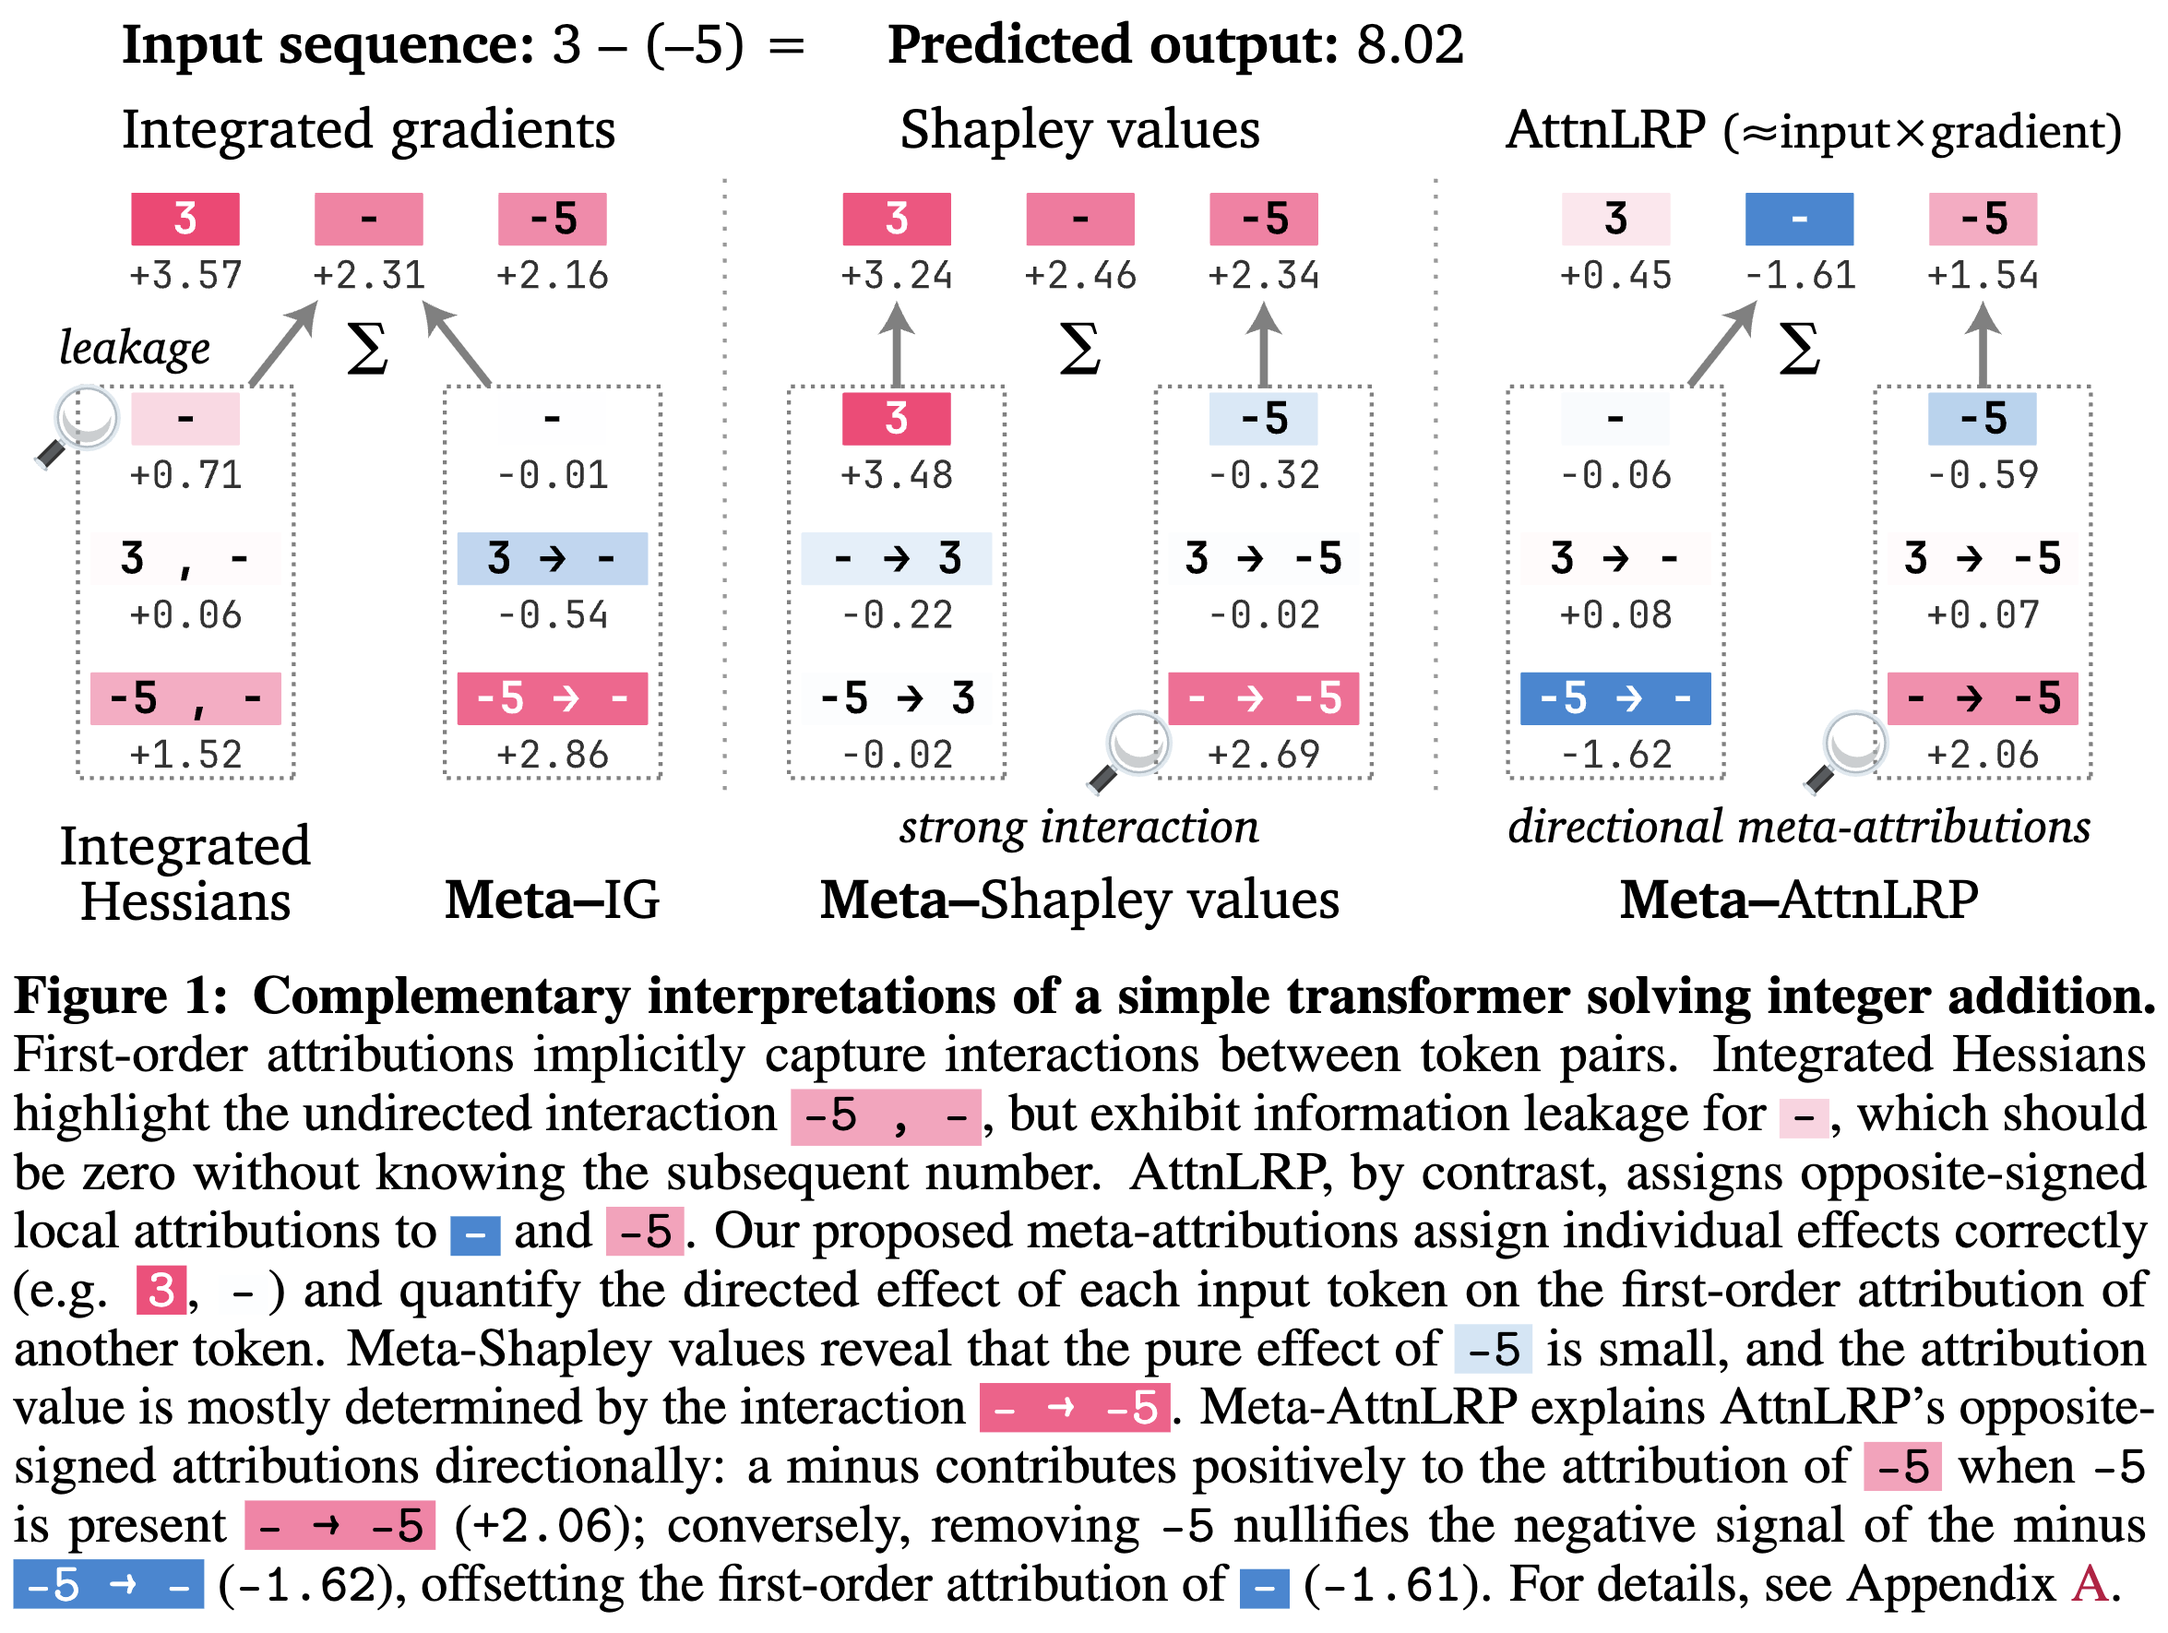
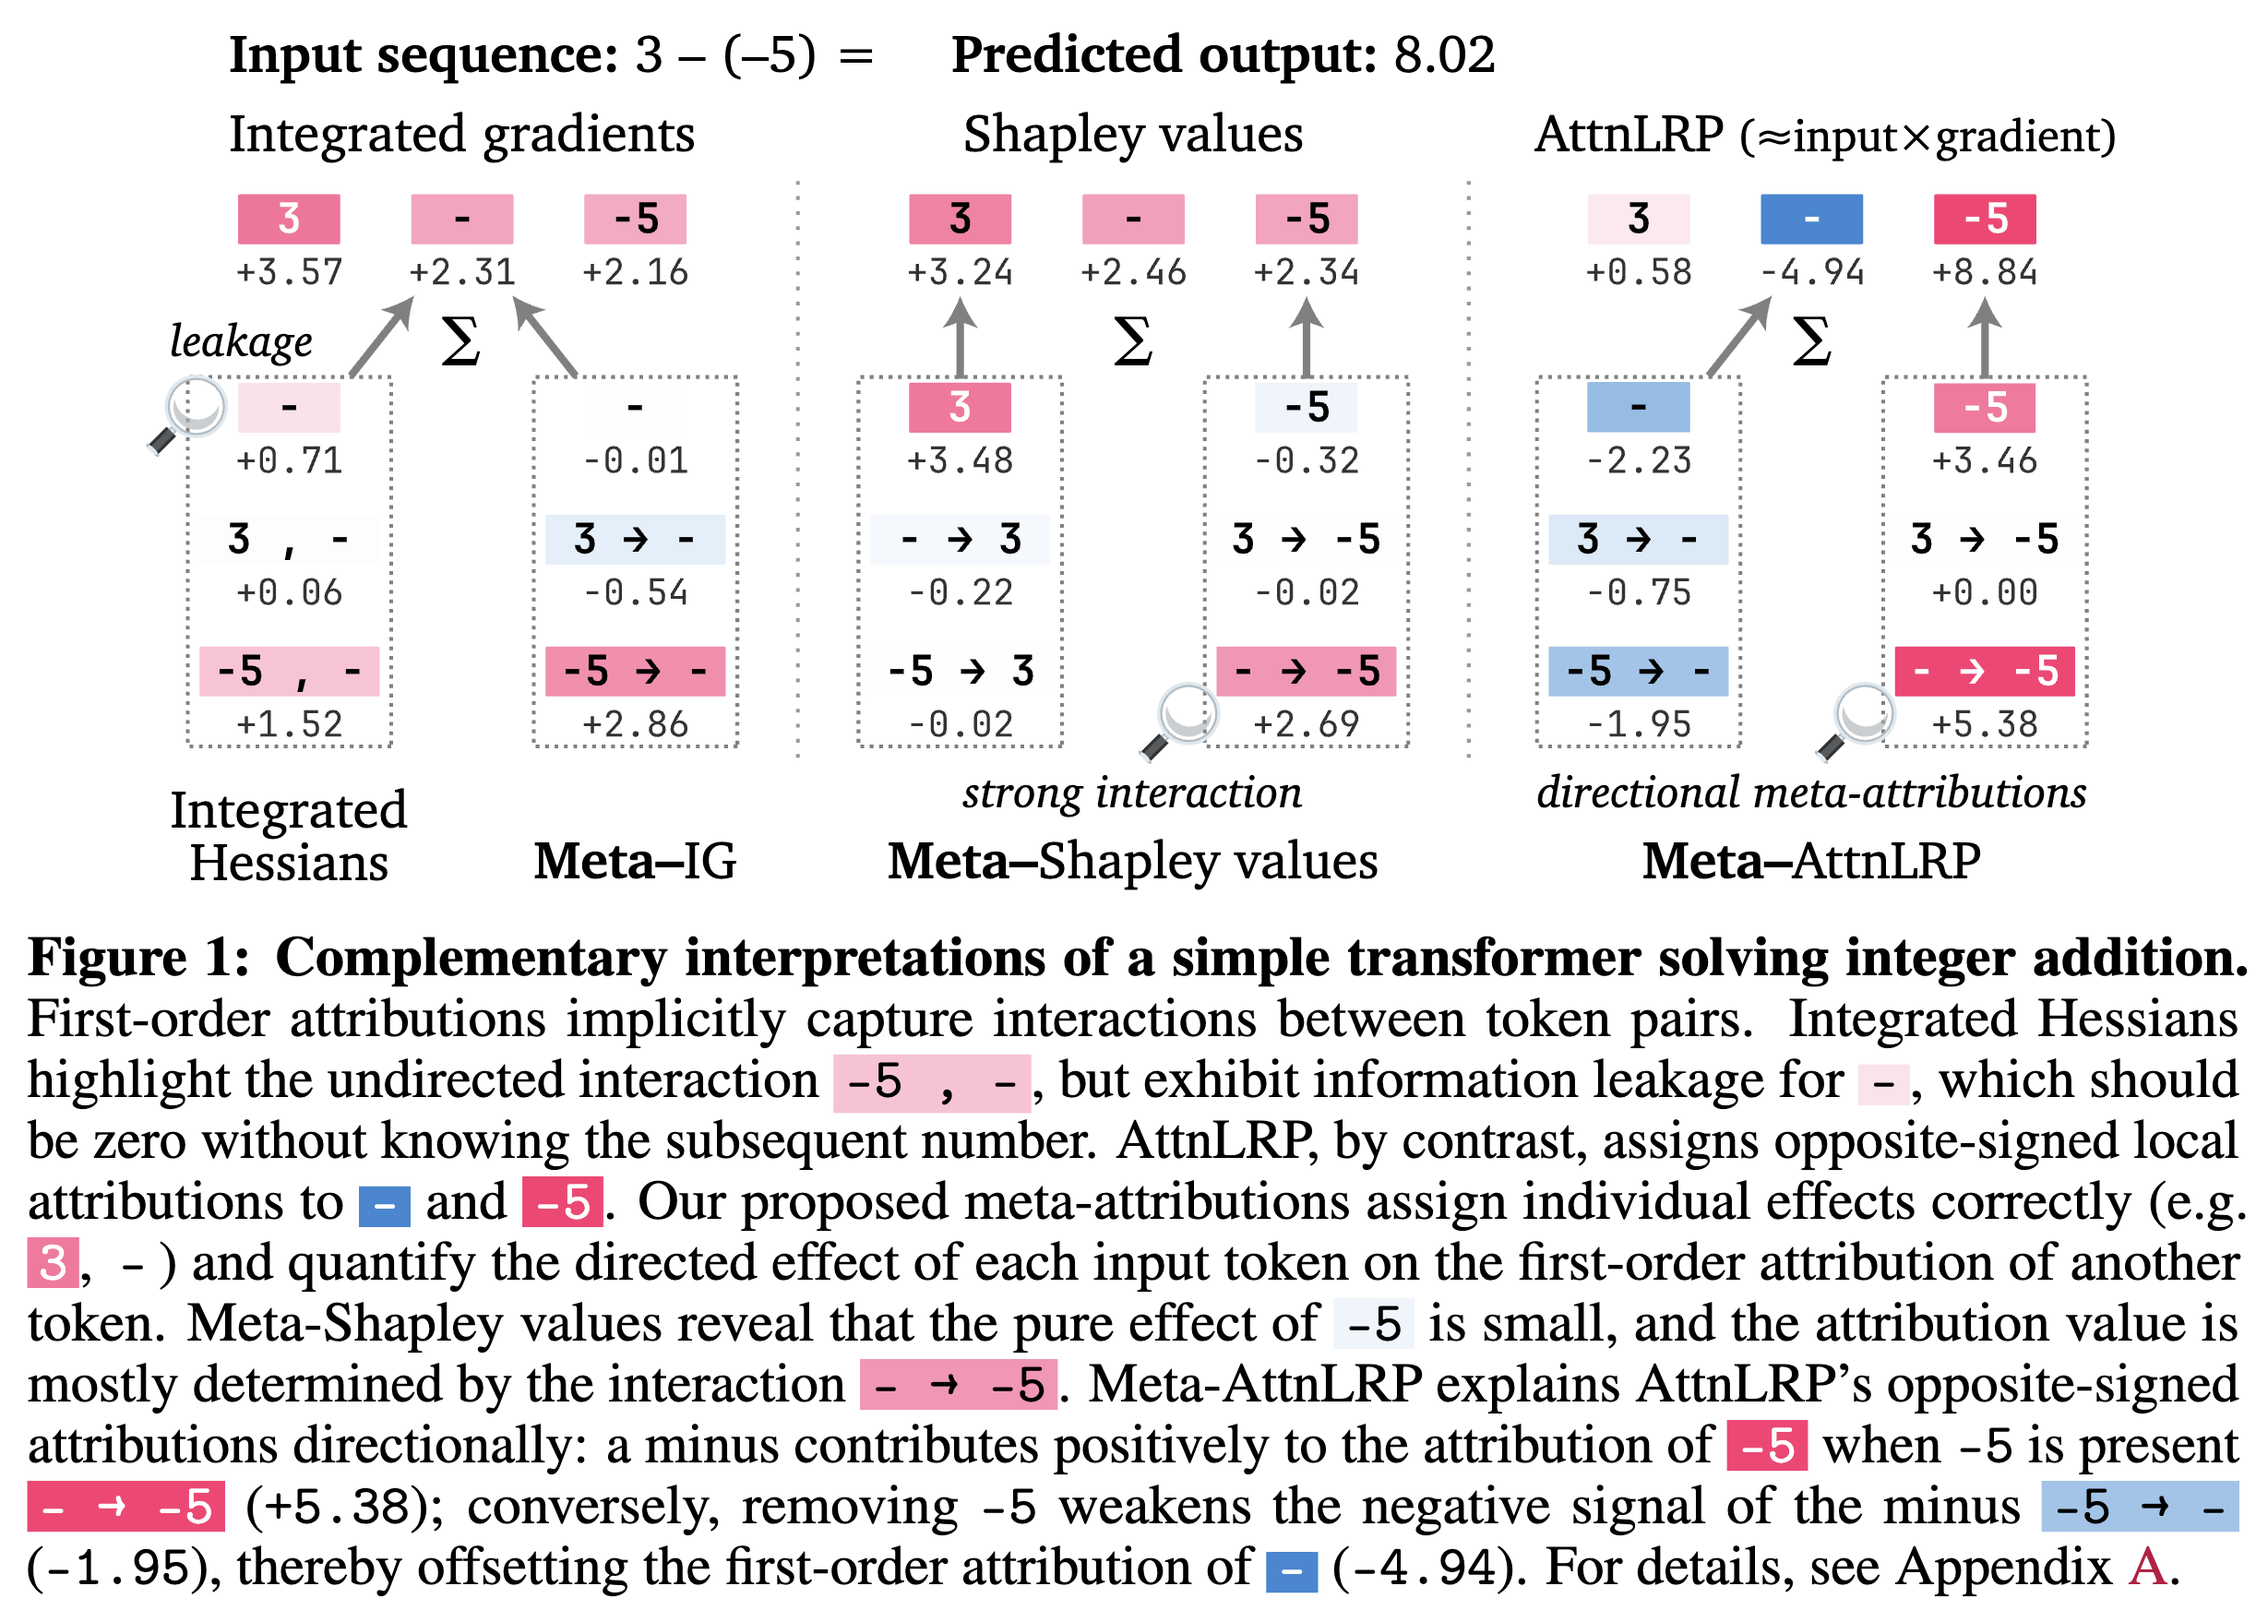
update title and figure 1

Changed region(s): [[0.0, 0.0, 0.994, 1.0], [0.0, 0.0, 0.3728, 0.3072]]

diff --git a/README.md b/README.md
@@ -1,8 +1,16 @@
-# metagame
+<div align="center">
+  
+# Metagame [NeurIPS 2026] 
 
-This repository contains the raw supplementary code and metadata for the preprint:
+[![arXiv](http://img.shields.io/badge/Paper-arxiv.2605.06295-FF6B6B.svg)](https://arxiv.org/abs/2605.06295)
+[![Conference](http://img.shields.io/badge/NeurIPS-2026-FFD93D.svg)](https://neurips.cc/Conferences/2026)
+</div>
 
-> Hubert Baniecki, Przemyslaw Biecek, Fabian Fumagalli. **Attributions All the Way Down? The Metagame of Interpretability** https://arxiv.org/abs/2605.06295
+This repository is a code supplement to the following [paper](https://arxiv.org/abs/2605.06295):
+
+> Hubert Baniecki, Przemyslaw Biecek, Fabian Fumagalli. **The Metagame of Interpretability and Meta-Attributions**. *NeurIPS 2026*
+
+**TL;DR:** We introduce meta-attributions, which decompose any feature attribution into directional interactions via Shapley values, and we apply them to interpret language and multimodal transformers.
 
 ![](assets/figure1.png)
 
